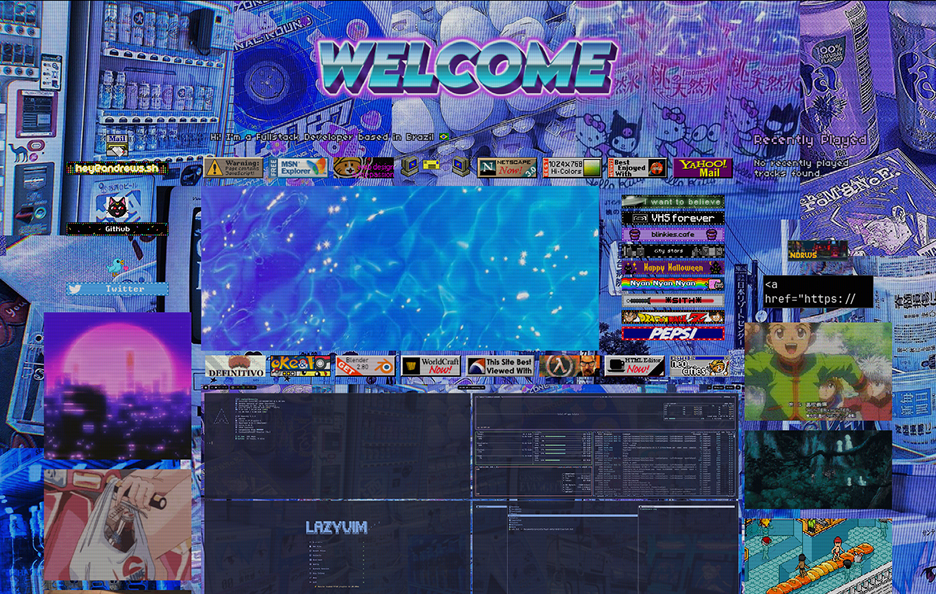
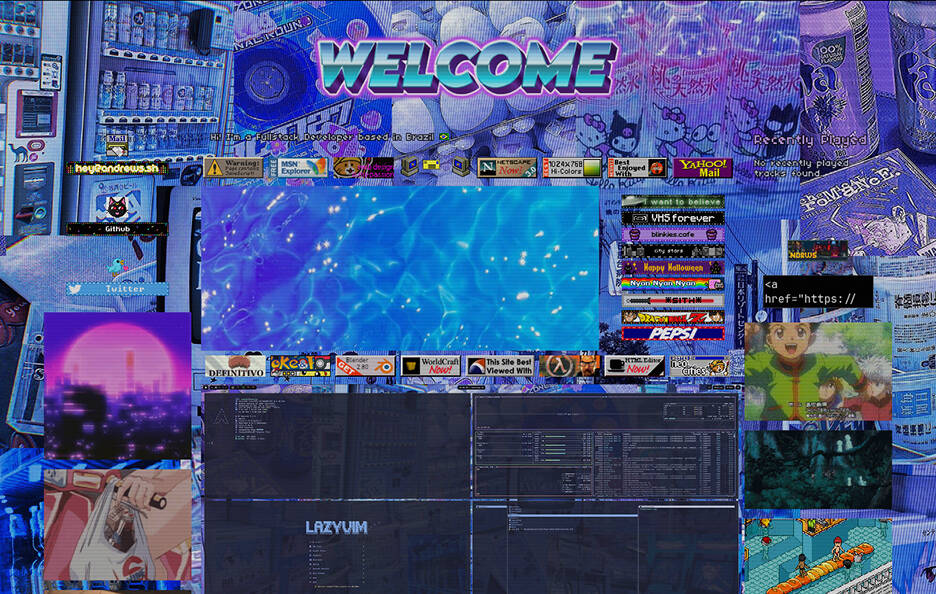
og image

diff --git a/index.html b/index.html
@@ -16,6 +16,9 @@
   <meta property="og:title" content="andrews" />
   <meta property="og:description" content="My website." />
   <meta property="og:image" content="https://andrews.sh/images/og-cybercore.jpg" />
+  <meta property="og:image:type" content="image/jpeg" />
+  <meta property="og:image:width" content="936" />
+  <meta property="og:image:height" content="594" />
 </head>
 
 <body>
